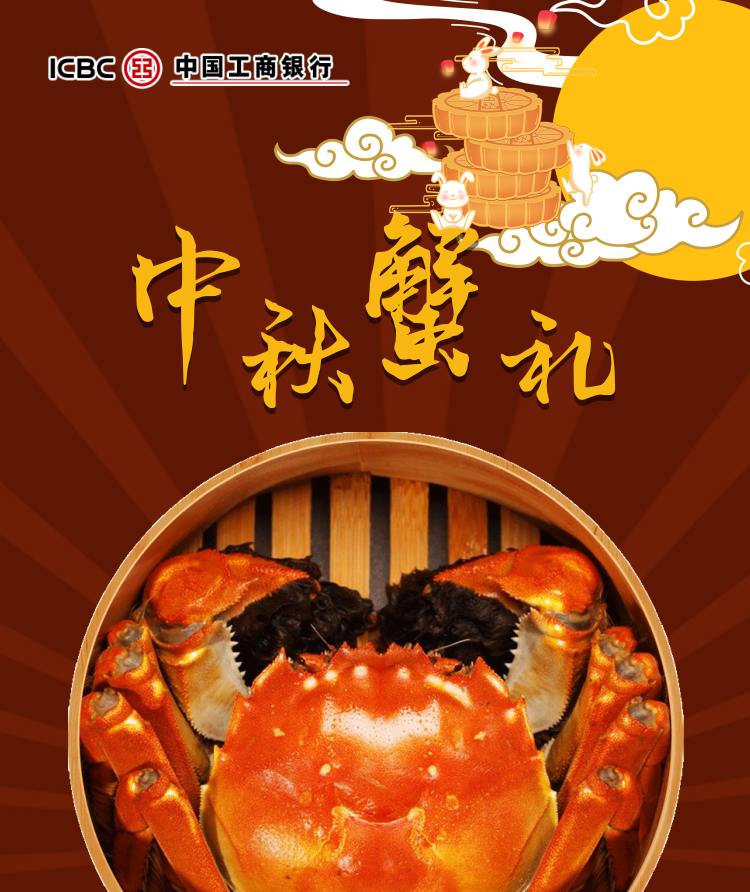
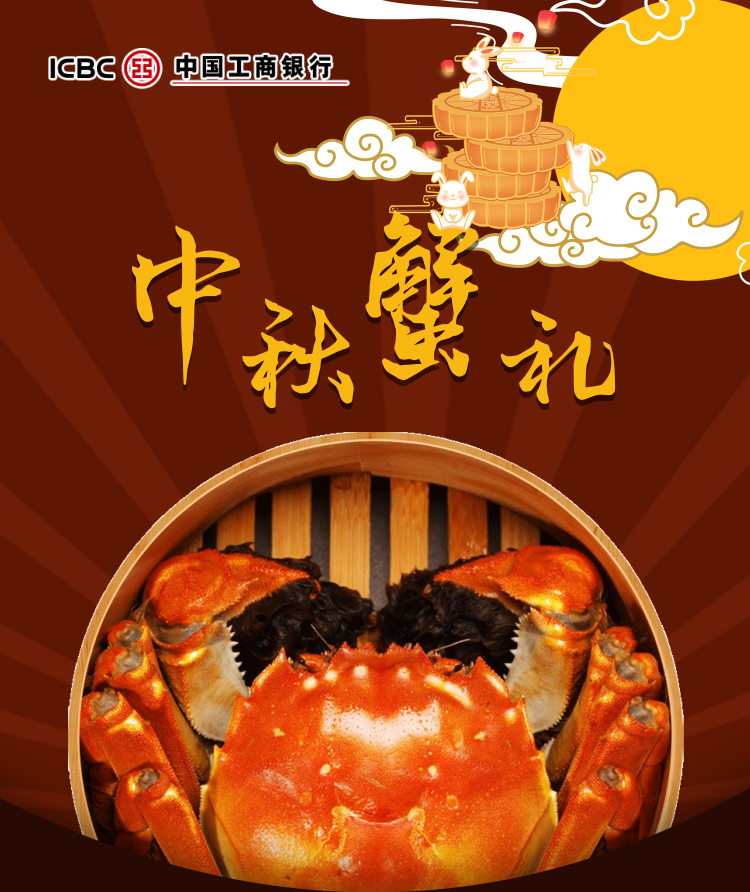
commit

Changed region(s): [[0.0, 0.8778, 1.0, 1.0]]

diff --git a/css/zqActivity.css b/css/zqActivity.css
@@ -47,3 +47,94 @@
 body {
     background-color: rgba(39, 10, 3, 1);
 }
+
+.content_box {
+
+}
+
+.content_box .banner {
+    width: 100%;
+    /*height: 8.77rem;*/
+}
+
+.content_box .banner img {
+    display: block;
+    width: 100%;
+    height: 100%;
+}
+
+.title1_box, .title2_box {
+    position: relative;
+    display: flex;
+    justify-content: center;
+    align-items: center;
+    margin: 0.22rem 0 0 0;
+}
+
+.title1_box img, .title2_box img {
+    display: block;
+    width: 1.93rem;
+    height: 0.65rem;
+}
+
+.title1_box img.position_left {
+    position: absolute;
+    left: 0;
+    top:-0.52rem;
+    display: block;
+    width: 0.48rem;
+    height: 1.26rem;
+}
+
+.title2_box img.position_right {
+    display: block;
+    width: 0.52rem;
+    height: 1.26rem;
+    position: absolute;
+    right: 0;
+    top:-0.52rem;
+}
+
+.product_list1 {
+    margin: 0.14rem 0 0 0;
+}
+
+.product_list2 {
+    display: flex;
+    flex-wrap: wrap;
+    justify-content: space-between;
+    box-sizing: border-box;
+    padding: 0 0.20rem;
+    margin: 0.14rem 0 0 0;
+}
+
+.product_list2 li {
+    margin-bottom: 0.22rem;
+}
+
+.product_list2 img {
+    display: block;
+    width: 1.6rem;
+    height: 2.48rem;
+}
+
+.product_list2 {
+    display: flex;
+    justify-content: space-between;
+    box-sizing: border-box;
+    padding: 0 0.24rem;
+}
+
+.product_list1 li {
+    box-sizing: border-box!important;
+    padding: 0 0.24rem;
+    width: 100%;
+    margin-bottom: 0.14rem;
+}
+
+.product_list1 img {
+    display: block;
+    width: 100%;
+}
+
+

diff --git a/html/zqActivity.html b/html/zqActivity.html
@@ -19,5 +19,46 @@
     </div>
     <div class="right"></div>
   </div>
+  <div class="content_box">
+    <div class="banner">
+      <img src="../images/activity_bg.png" alt="">
+    </div>
+    <div class="title1_box">
+      <img src="../images/icon_title2.png" alt="">
+      <img src="../images/icon_lantern_left.png" class="position_left" alt="">
+    </div>
+
+    <ul class="product_list1">
+      <li>
+        <img src="../images/product_bg_left.png" alt="">
+      </li>
+      <li>
+        <img src="../images/product_bg_right.png" alt="">
+      </li>
+      <li>
+        <img src="../images/product_bg_left.png" alt="">
+      </li>
+    </ul>
+
+    <div class="title2_box">
+      <img src="../images/icon_title1.png" alt="">
+      <img src="../images/icon_lantern_right.png" class="position_right" alt="">
+    </div>
+
+    <ul class="product_list2">
+      <li>
+        <img src="../images/product_bg_bottom.png" alt="">
+      </li>
+      <li>
+        <img src="../images/product_bg_bottom.png" alt="">
+      </li>
+      <li>
+        <img src="../images/product_bg_bottom.png" alt="">
+      </li>
+      <li>
+        <img src="../images/product_bg_bottom.png" alt="">
+      </li>
+    </ul>
+  </div>
 </body>
 </html>

diff --git a/css/reset.css b/css/reset.css
@@ -164,7 +164,7 @@ a {
 html,
 body {
     width: 100%;
-    height: 100%;
+    min-height: 100%;
     box-sizing: border-box;
     font-family: "Arial", "Microsoft YaHei", "黑体", "宋体", "微软雅黑",
     sans-serif;
